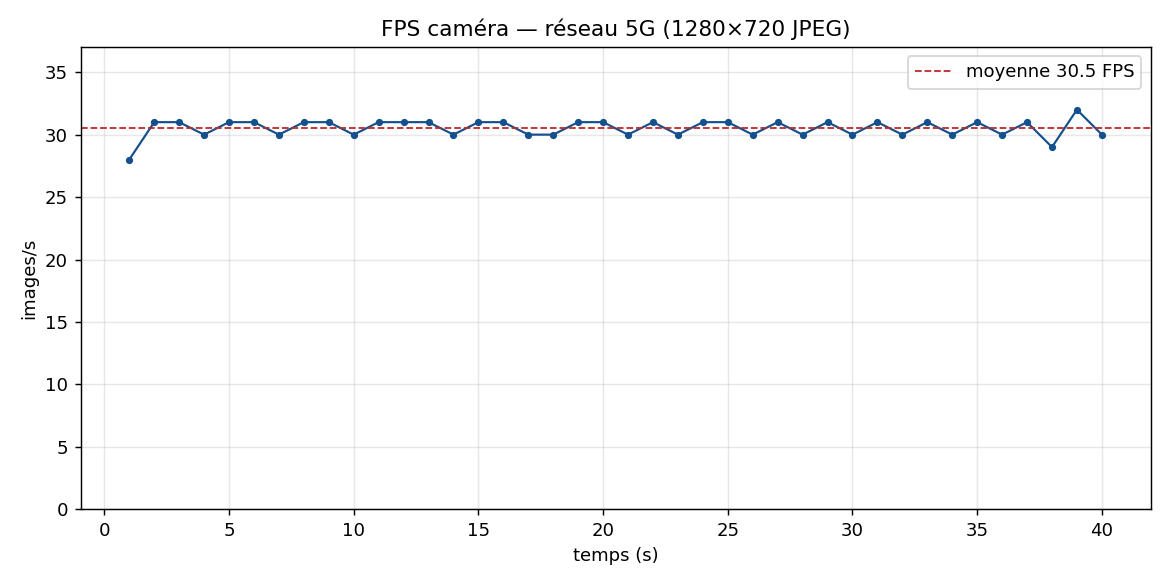
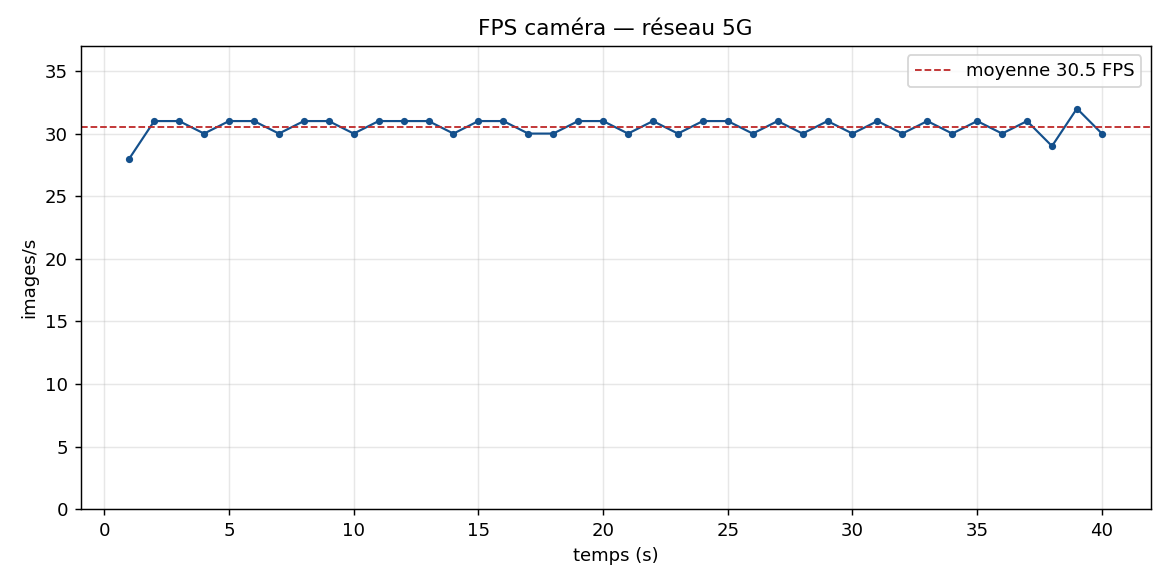
courbes: retrait de la mention (1280×720 JPEG) des titres FPS

diff --git a/docs/reseau/mesure_fps.py b/docs/reseau/mesure_fps.py
@@ -52,7 +52,7 @@ open("fps_donnees.txt", "w").write("\n".join(map(str, fps)))
 plt.figure(figsize=(9, 4.5))
 plt.plot(range(1, len(fps) + 1), fps, color="#14508C", marker=".", lw=1.2)
 plt.axhline(moy, color="#BE2828", ls="--", lw=1, label=f"moyenne {moy:.1f} FPS")
-plt.title(f"FPS caméra — réseau {reseau} (1280×720 JPEG)")
+plt.title(f"FPS caméra — réseau {reseau}")
 plt.xlabel("temps (s)"); plt.ylabel("images/s")
 plt.legend(); plt.grid(alpha=0.3); plt.ylim(0, max(fps) + 5); plt.tight_layout()
 plt.savefig("courbe_fps.png", dpi=130)
